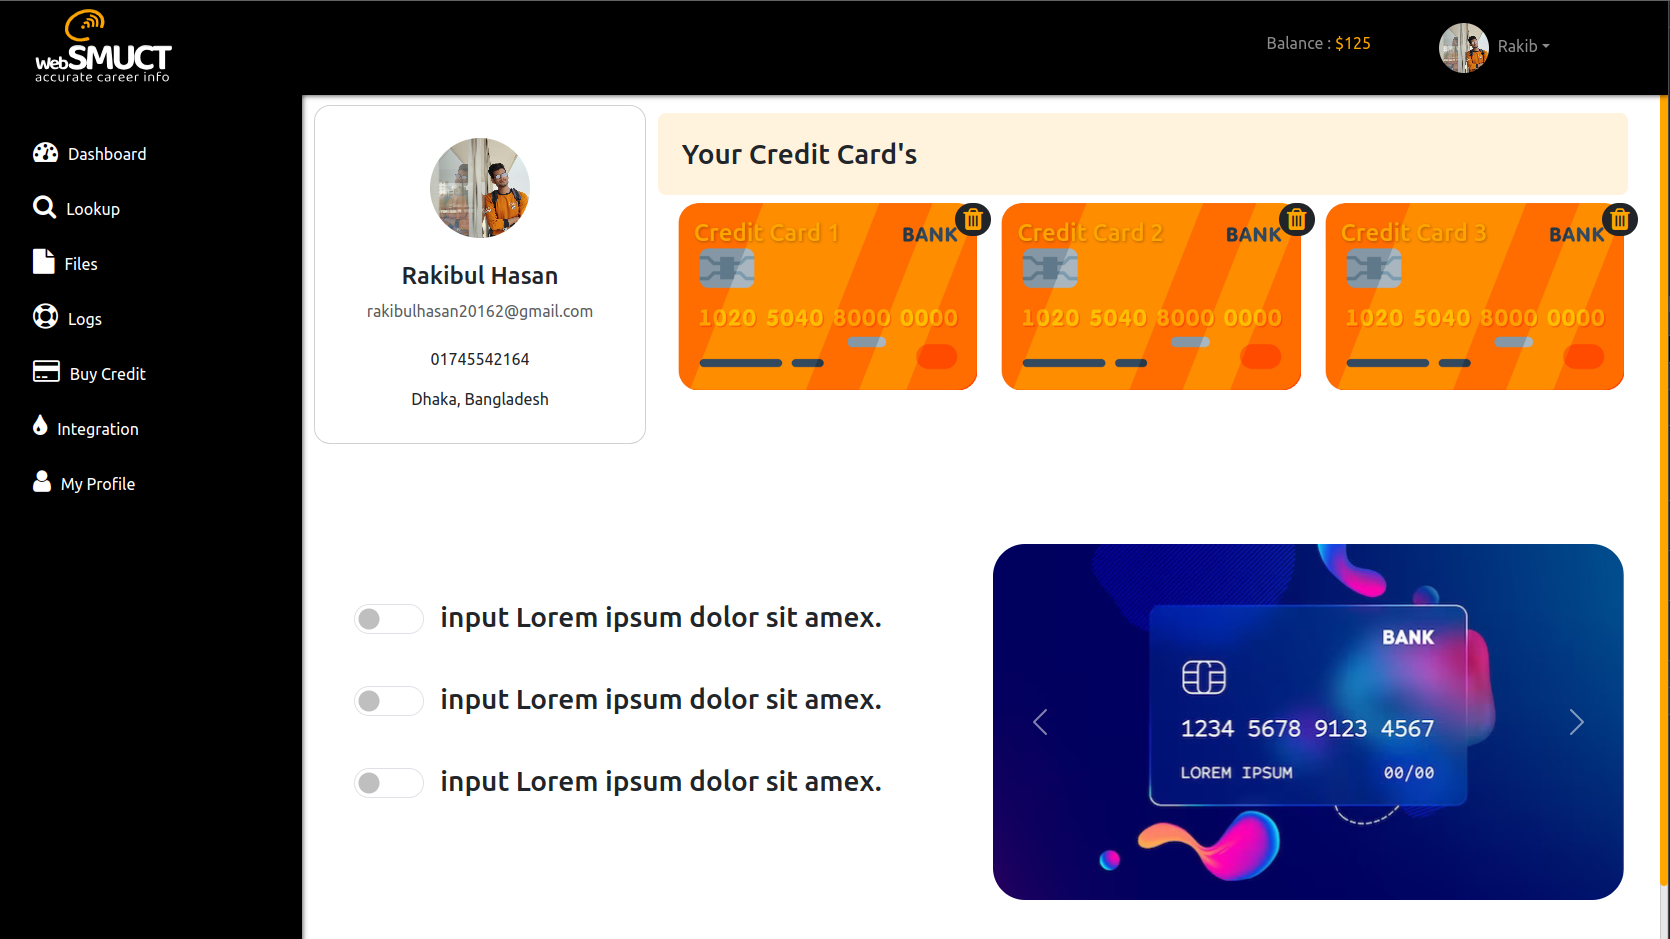
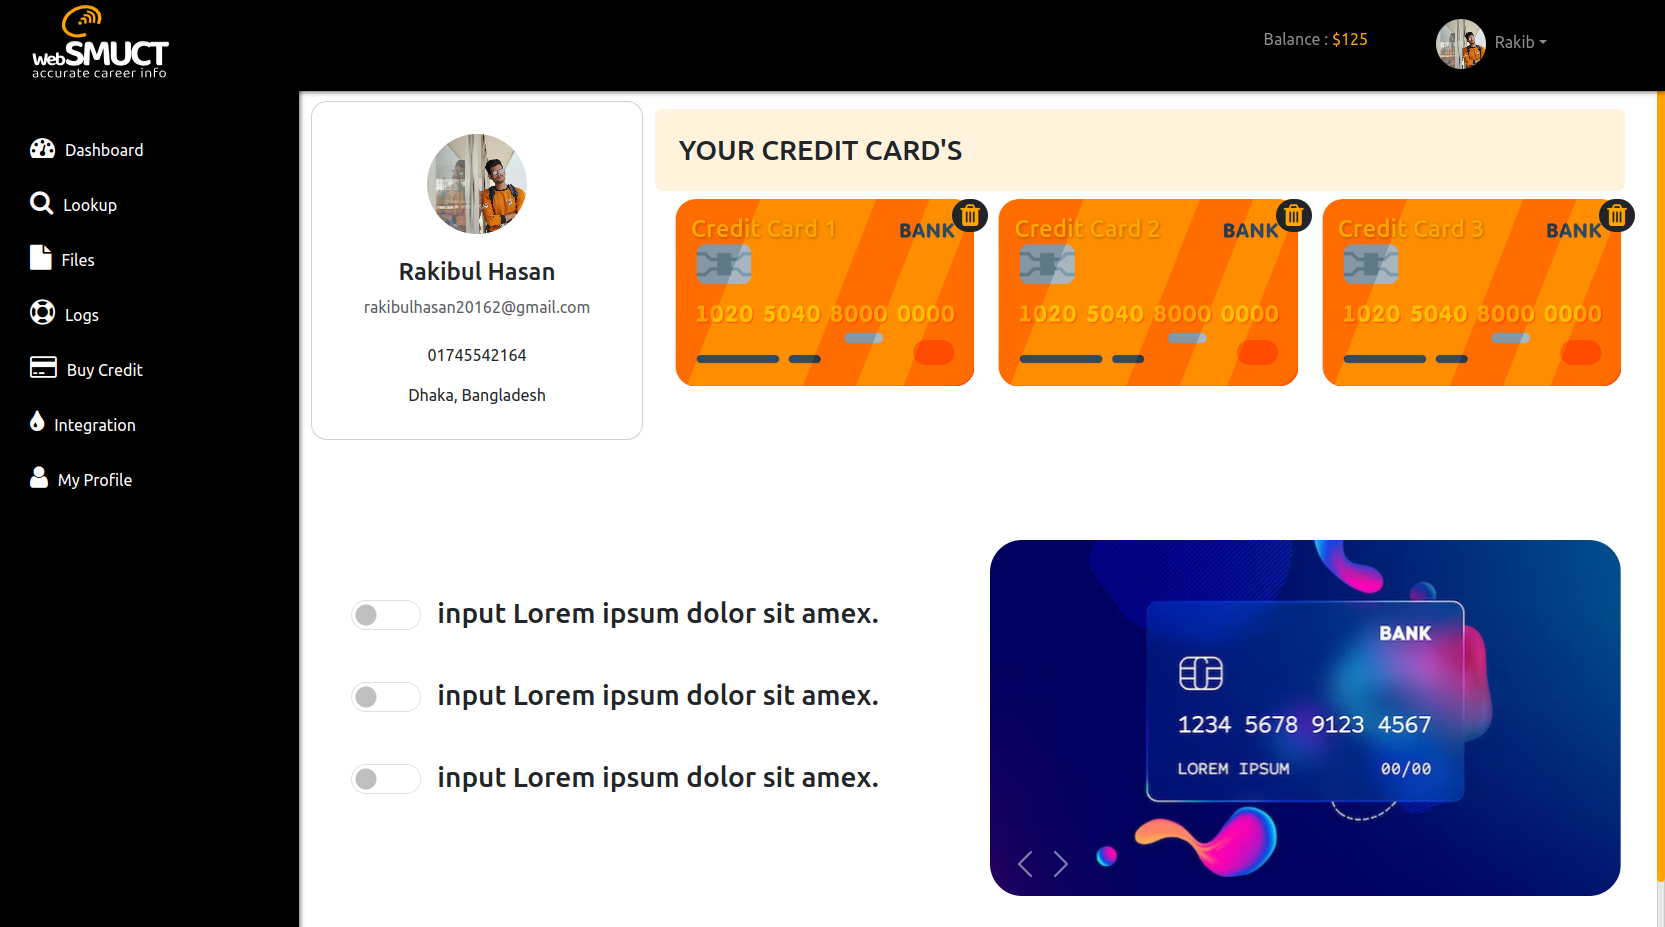
accurate carousal design for assignment

diff --git a/src/index.html b/src/index.html
@@ -152,7 +152,7 @@
                   class="h3 mt-2 p-4 rounded-3"
                   style="background-color: rgba(255, 166, 0, 0.132)"
                 >
-                  Your Credit Card's
+                  YOUR CREDIT CARD'S
                 </h3>
                 <div class="row gap-3 gap-md-0 ms-2 h-100 w-100">
                   <!-- card 1 -->
@@ -232,89 +232,133 @@
           </div>
         </div>
 
-        
         <!-- bottom section -->
 
         <div class="bottom-section row h-50 p-4">
           <div class="d-flex col-lg-6 h-100 align-items-center">
             <ul class="list-unstyled p-lg-3 pt-4">
               <li class="mb-3 mb-lg-5">
-                <div class="d-flex gap-3 align-items-center form-check form-switch">
+                <div
+                  class="d-flex gap-3 align-items-center form-check form-switch"
+                >
                   <input
                     class="form-check-input"
                     type="checkbox"
                     role="switch"
                     id="flexSwitchCheckDefault"
-                    style="width: 70px; height: 30px;cursor: pointer;"
+                    style="width: 70px; height: 30px; cursor: pointer"
                   />
-                  <label class="form-check-label h3 m-0" for="flexSwitchCheckDefault"
+                  <label
+                    class="form-check-label h3 m-0"
+                    for="flexSwitchCheckDefault"
                     >input Lorem ipsum dolor sit amex.</label
                   >
                 </div>
               </li>
               <li class="mb-3 mb-lg-5">
-                <div class="d-flex gap-3 align-items-center form-check form-switch">
+                <div
+                  class="d-flex gap-3 align-items-center form-check form-switch"
+                >
                   <input
                     class="form-check-input"
                     type="checkbox"
                     role="switch"
                     id="flexSwitchCheckDefault"
-                    style="width: 70px; height: 30px;cursor: pointer;"
+                    style="width: 70px; height: 30px; cursor: pointer"
                   />
-                  <label class="form-check-label h3 m-0" for="flexSwitchCheckDefault"
+                  <label
+                    class="form-check-label h3 m-0"
+                    for="flexSwitchCheckDefault"
                     >input Lorem ipsum dolor sit amex.</label
                   >
                 </div>
               </li>
               <li class="mb-3 mb-lg-5">
-                <div class="d-flex gap-3 align-items-center form-check form-switch">
+                <div
+                  class="d-flex gap-3 align-items-center form-check form-switch"
+                >
                   <input
                     class="form-check-input"
                     type="checkbox"
                     role="switch"
                     id="flexSwitchCheckDefault"
-                    style="width: 70px; height: 30px; cursor: pointer;"
+                    style="width: 70px; height: 30px; cursor: pointer"
                   />
-                  <label class="form-check-label h3 m-0" for="flexSwitchCheckDefault"
+                  <label
+                    class="form-check-label h3 m-0"
+                    for="flexSwitchCheckDefault"
                     >input Lorem ipsum dolor sit amex.</label
                   >
                 </div>
               </li>
-              
-              
             </ul>
           </div>
 
           <!-- carousal Section -->
           <div class="col-lg-6 h-100">
-        
-            <div id="carouselExample" class="carousel slide">
-                <div class="carousel-inner rounded-5">
-                  <div class="carousel-item active">
-                    <img src="picture/carousal_3.avif" class="d-block w-100" alt="...">
-                  </div>
-                  <div class="carousel-item">
-                    <img src="picture/carousal_2.avif" class="d-block w-100" alt="...">
-                  </div>
-                  <div class="carousel-item">
-                    <img src="picture/carousal_1.webp" class="d-block w-100" alt="...">
-                  </div>
-                  <div class="carousel-item">
-                    <img src="picture/carousal_0.jpg" class="d-block w-100" alt="...">
-                  </div>
+            <div id="carouselExample" class="carousel slide position-relative">
+              <div class="carousel-inner rounded-5">
+                <div class="carousel-item active">
+                  <img
+                    src="picture/carousal_3.avif"
+                    class="d-block w-100"
+                    alt="Picture"
+                  />
                 </div>
-                <button class="carousel-control-prev" type="button" data-bs-target="#carouselExample" data-bs-slide="prev">
-                  <span class="carousel-control-prev-icon" aria-hidden="true"></span>
-                  <span class="visually-hidden">Previous</span>
-                </button>
-                <button class="carousel-control-next" type="button" data-bs-target="#carouselExample" data-bs-slide="next">
-                  <span class="carousel-control-next-icon" aria-hidden="true"></span>
-                  <span class="visually-hidden">Next</span>
-                </button>
+                <div class="carousel-item">
+                  <img
+                    src="picture/carousal_2.avif"
+                    class="d-block w-100"
+                    alt="Picture"
+                  />
+                </div>
+                <div class="carousel-item">
+                  <img
+                    src="picture/carousal_1.webp"
+                    class="d-block w-100"
+                    alt="Picture"
+                  />
+                </div>
+                <div class="carousel-item">
+                  <img
+                    src="picture/carousal_0.jpg"
+                    class="d-block w-100"
+                    alt="Picture"
+                  />
+                </div>
               </div>
+              <!-- carousal controller button's -->
+              <button
+                class="carousel-control-prev position-relative"
+                type="button"
+                data-bs-target="#carouselExample"
+                data-bs-slide="prev"
+              >
+                <span
+                  class="carousel-control-prev-icon position-absolute bottom-0 mb-3 me-4"
+                  aria-hidden="true"
+                ></span>
+                <span class="visually-hidden">Previous</span>
+              </button>
+              <button
+                class="carousel-control-next position-relative"
+                type="button"
+                data-bs-target="#carouselExample"
+                data-bs-slide="next"
+              >
+                <span
+                  class="carousel-control-next-icon position-absolute bottom-0 ms-5 mb-3"
+                  aria-hidden="true"
+                ></span>
+                <span class="visually-hidden">Previous</span>
+              </button>
 
-        
-        </div>
+              <!-- <button class="carousel-control-next position-absolute start-0" type="button" data-bs-target="#carouselExample" data-bs-slide="next">
+                    <span class="carousel-control-next-icon position-absolute bottom-0 ms-5" aria-hidden="true"></span>
+                  <span class="visually-hidden">Next</span>
+                </button> -->
+            </div>
+          </div>
         </div>
       </div>
     </main>

diff --git a/src/css/style.css b/src/css/style.css
@@ -21,6 +21,7 @@ main div a,
   padding: 10px;
   transition: 0.1s;
   border-radius: 5px;
+  transition: .5s;
 }
 main div a:hover,
 #menu a:hover {
@@ -45,6 +46,15 @@ pre {
 
 .text-shadow {
   text-shadow: 1px 1px 3px rgba(0, 0, 0, 0.308);
+}
+
+.card{
+    transition: 1s ease;
+}
+.card:hover{
+    background-color: rgba(255, 166, 0, 0.039) !important;
+    box-shadow: 1px 1px 15px rgba(255, 166, 0, 0.377);
+    transition: .5s ease;
 }
 
 
@@ -84,11 +94,14 @@ pre {
     background-color: orange;
 }
 
-
+.form-check-label{
+    transition: .4s ease-in-out !important;
+}
 .toggle-on {
     color: rgba(0, 0, 0, 0.455) !important;
+    font-style: oblique;
+    font-weight: 100 !important;
 }
 .toggle-off {
-   
     color: black !important;
 }

diff --git a/src/js/app.js b/src/js/app.js
@@ -7,9 +7,7 @@ switches.forEach(switchBtn => {
 
         if (isChecked) {
             targetElement.classList.add('toggle-on');
-            targetElement.classList.remove('toggle-off');
         } else {
-            targetElement.classList.add('toggle-off');
             targetElement.classList.remove('toggle-on');
         }
     });
